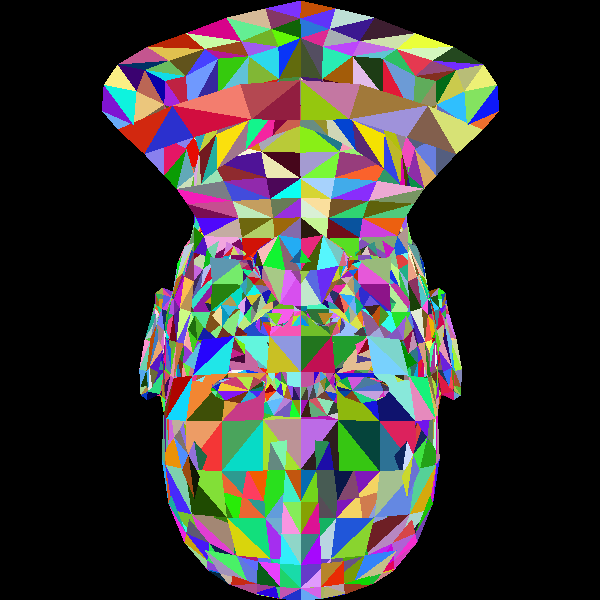
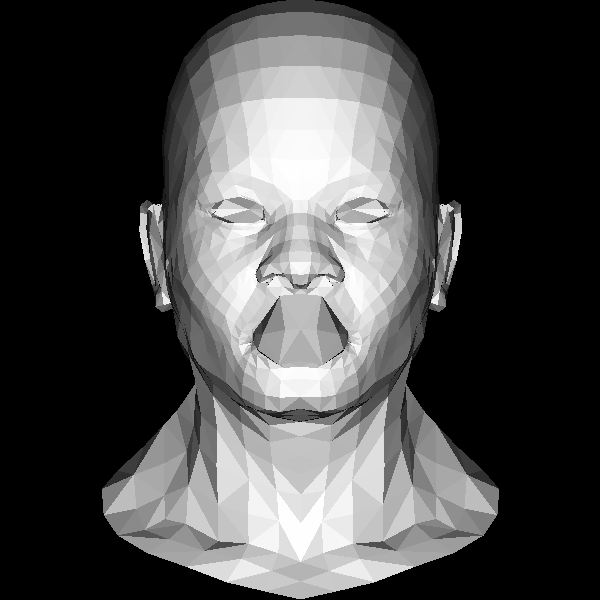
[UPDATE] - updated draw and obj packages to work with vector3. added normals to renderModel

diff --git a/main.go b/main.go
@@ -5,9 +5,9 @@ import (
 	"image"
 	"image/color"
 	"image/png"
-	"math/rand"
 	"os"
 
+	"github.com/deeean/go-vector/vector3"
 	"github.com/hekatx/go-renderer/draw"
 	"github.com/hekatx/go-renderer/obj"
 )
@@ -17,39 +17,58 @@ import (
 // normals
 func renderModel(model obj.Model, width, height int, image *image.RGBA) {
 	var screen_coords [3][2]float64
-	var world_coords [3][]float64
-	// light_dir := []int{0, 0, -1}
+	var world_coords [3]vector3.Vector3
+	light_dir := vector3.New(0., 0., -1.)
 	for i := 0; i < len(model.Faces); i++ {
 		face := model.Faces[i]
 		for j := 0; j < 3; j++ {
 			v := model.Vertices[face[j]]
-			screen_coords[j] = [2]float64{(v[0] + 1.) * float64(width) / 2., (v[1] + 1.) * float64(height) / 2.}
+			screen_coords[j] = [2]float64{(v.X + 1.) * float64(width) / 2., (v.Y + 1.) * float64(height) / 2.}
 			world_coords[j] = v
 		}
-		// normal := (world_coords[2] - world_coords[0]) ^ (world_coords[1] - world_coords[0])
+		a := world_coords[0]
+		b := world_coords[1]
+		c := world_coords[2]
+		qr := c.Sub(&a)
+		qs := b.Sub(&a)
+		normal := qr.Cross(qs)
+		normal = normal.Normalize()
 
-		//intensity := normal * light_dir
-		random_color := color.RGBA{uint8(rand.Int()), uint8(rand.Int()), uint8(rand.Int()), 255}
+		intensity := normal.Dot(light_dir)
+		random_color := color.RGBA{uint8(intensity * 255), uint8(intensity * 255), uint8(intensity * 255), 255}
 
-		draw.Triangle(
-			image,
-			random_color,
-			[]draw.Point{
-				{
-					X: float32(screen_coords[0][0]),
-					Y: float32(screen_coords[0][1]),
+		if intensity > 0 {
+			draw.Triangle(
+				image,
+				random_color,
+				[]draw.Point{
+					{
+						X: float32(screen_coords[0][0]),
+						Y: float32(screen_coords[0][1]),
+					},
+					{
+						X: float32(screen_coords[1][0]),
+						Y: float32(screen_coords[1][1]),
+					},
+					{
+						X: float32(screen_coords[2][0]),
+						Y: float32(screen_coords[2][1]),
+					},
 				},
-				{
-					X: float32(screen_coords[1][0]),
-					Y: float32(screen_coords[1][1]),
-				},
-				{
-					X: float32(screen_coords[2][0]),
-					Y: float32(screen_coords[2][1]),
-				},
-			},
-		)
+			)
+		}
 	}
+}
+
+func flipVertically(canvas *image.RGBA) *image.RGBA {
+	bounds := canvas.Bounds()
+	flipped := image.NewRGBA(image.Rect(0, 0, bounds.Max.X, bounds.Max.Y))
+	for i := 0; i <= bounds.Max.X; i++ {
+		for j := 0; j <= bounds.Max.Y; j++ {
+			flipped.Set(i, bounds.Max.Y-j-1, canvas.At(i, j))
+		}
+	}
+	return flipped
 }
 
 func main() {
@@ -60,6 +79,7 @@ func main() {
 	head_model := obj.Decode("./african_head.obj")
 
 	renderModel(head_model, width, height, base)
+	base = flipVertically(base)
 
 	f, _ := os.Create("image.png")
 	err := png.Encode(f, base)

diff --git a/obj/obj.go b/obj/obj.go
@@ -7,10 +7,12 @@ import (
 	"os"
 	"strconv"
 	"strings"
+
+	"github.com/deeean/go-vector/vector3"
 )
 
 type Model struct {
-	Vertices [][]float64
+	Vertices []vector3.Vector3
 	Faces    [][]int
 }
 
@@ -76,17 +78,17 @@ func Decode(path string) Model {
 	return model
 }
 
-func stringToFloat(arr []string) ([]float64, error) {
+func stringToFloat(arr []string) (vector3.Vector3, error) {
 	fa := make([]float64, 0, len(arr))
 	for _, a := range arr {
 		f, e := strconv.ParseFloat(a, 32)
 		if e != nil {
-			return fa, e
+			return *vector3.New(0, 0, 0), e
 		}
 		fa = append(fa, float64(f))
 	}
 
-	return fa, nil
+	return *vector3.New(fa[0], fa[1], fa[2]), nil
 }
 
 func parseFaces(vNormalIndices []string) ([]int, error) {

diff --git a/draw/draw.go b/draw/draw.go
@@ -84,10 +84,10 @@ func RenderWireframe(model obj.Model, width, height int, image *image.RGBA) {
 			v0 := model.Vertices[face[j]]
 			v1 := model.Vertices[face[(j+1)%len(face)]]
 
-			x0 := (v0[0] + 1.) * float64(width) / 2.
-			y0 := (v0[1] + 1.) * float64(height) / 2.
-			x1 := (v1[0] + 1.) * float64(width) / 2.
-			y1 := (v1[1] + 1.) * float64(height) / 2.
+			x0 := (v0.X + 1.) * float64(width) / 2.
+			y0 := (v0.Y + 1.) * float64(height) / 2.
+			x1 := (v1.X + 1.) * float64(width) / 2.
+			y1 := (v1.Y + 1.) * float64(height) / 2.
 
 			Line(x0, y0, x1, y1, image, white)
 		}
